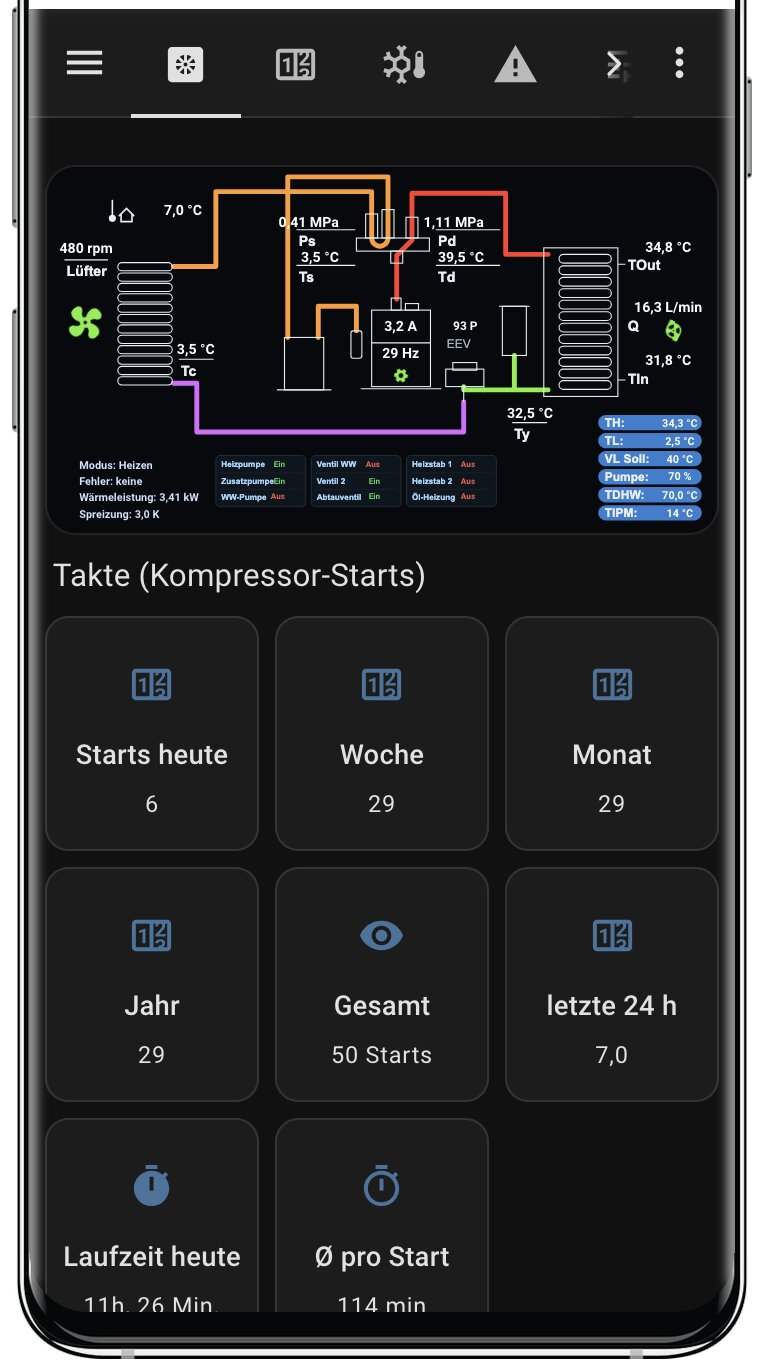
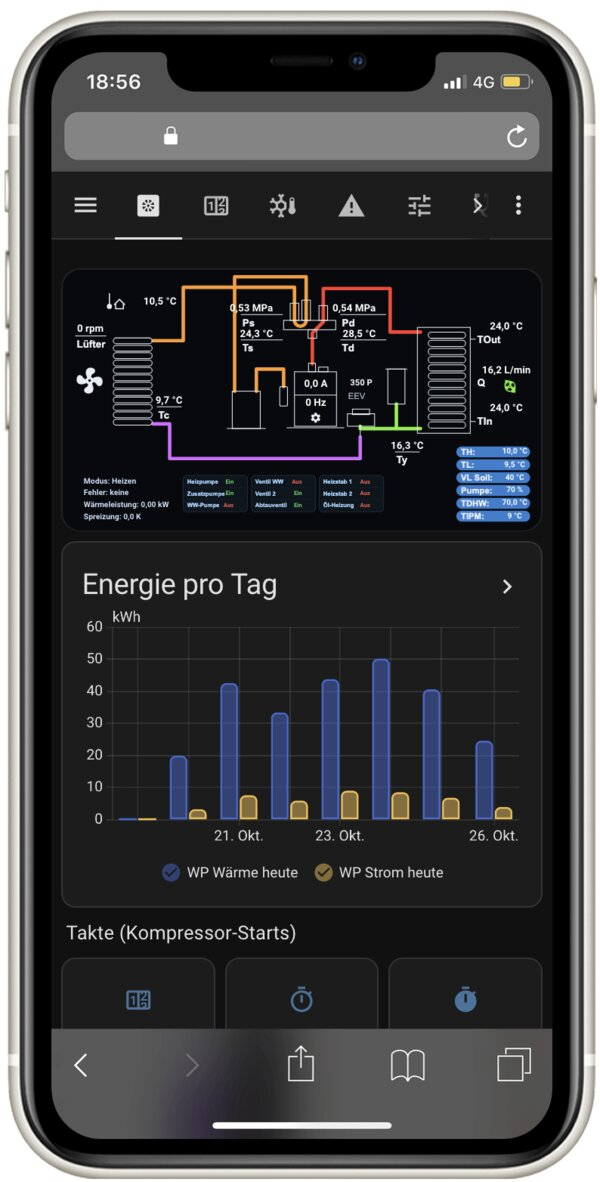
README: aktuelle Screenshots inkl. Energie-Ansicht und Smartphone-Galerie
Claude-Session: https://claude.ai/code/session_019DTqGpmcutvNU46wzvntYx

diff --git a/README.md b/README.md
@@ -50,8 +50,26 @@ Komplette Einbindung einer **Avarma (Hofman Energy) R290 Monoblock-Wärmepumpe**
 
 ### Screenshots
 
-| Arbeitsstatus | Smartphone |
+| Arbeitsstatus | Energie pro Tag & Takte |
 |---|---|
+| ![Arbeitsstatus](docs/images/ha-arbeitsstatus.jpg) | ![Energie pro Tag und Takte](docs/images/ha-energie-takte.jpg) |
+| **Takte & Energie** | **Takte & Energie (Verläufe)** |
+| ![Takte & Energie](docs/images/ha-takte-energie.jpg) | ![Takte & Energie, Verläufe](docs/images/ha-takte-energie-2.jpg) |
+| **Drücke, Temperaturen & Status** | **Kältekreis** |
+| ![Verläufe und Status](docs/images/ha-verlaeufe-status.jpg) | ![Kältekreis](docs/images/ha-kaeltekreis.jpg) |
+| **Fehler** | **Parameter** |
+| ![Fehler](docs/images/ha-fehler.jpg) | ![Parameter](docs/images/ha-parameter.jpg) |
+| **Benutzer-Parameter** | **Diagnose** |
+| ![Benutzer-Parameter](docs/images/ha-benutzer-parameter.jpg) | ![Diagnose](docs/images/ha-diagnose.jpg) |
+
+#### Am Smartphone
+
+| | | | |
+|---|---|---|---|
+| <img src="docs/images/dashboard-smartphone.jpg" width="200" alt="Display"> | <img src="docs/images/phone-hauptbild.jpg" width="200" alt="Hauptbild"> | <img src="docs/images/phone-takte.jpg" width="200" alt="Takte"> | <img src="docs/images/phone-kompressor.jpg" width="200" alt="Kompressor 24 h"> |
+| <img src="docs/images/phone-verlaeufe.jpg" width="200" alt="Drücke und Temperaturen"> | <img src="docs/images/phone-starts.jpg" width="200" alt="Kompressor-Starts"> | <img src="docs/images/phone-energie.jpg" width="200" alt="Energie"> | |
+
+---|---|
 | ![Arbeitsstatus](docs/images/ha-arbeitsstatus.jpg) | <img src="docs/images/dashboard-smartphone.jpg" width="300"> |
 | **Kompressor-Verlauf & Bedienung** | **Drücke, Temperaturen & Status** |
 | ![Kompressor-Verlauf und Bedienung](docs/images/ha-kompressor-bedienung.jpg) | ![Verläufe und Status](docs/images/ha-verlaeufe-status.jpg) |
